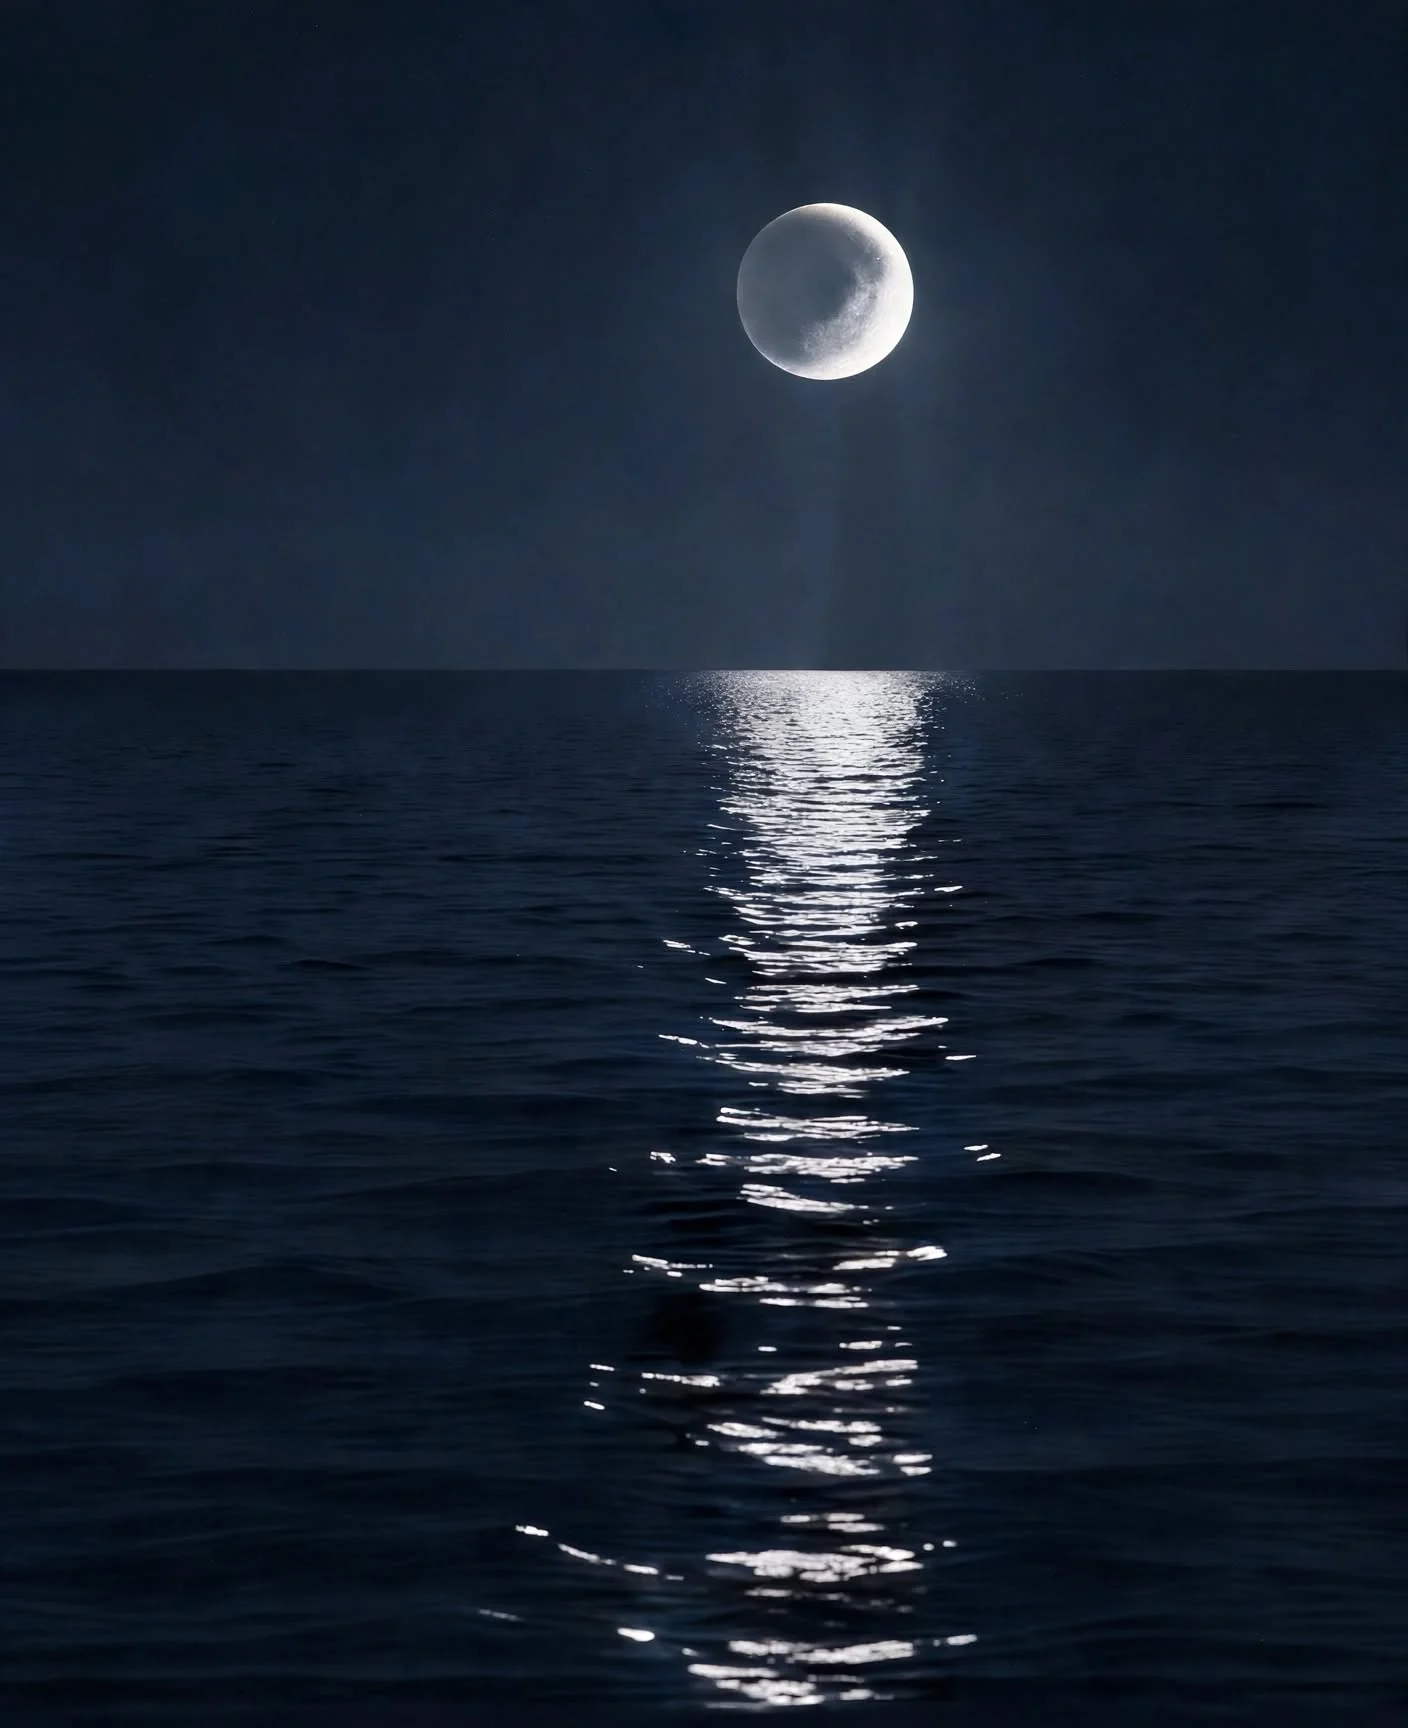
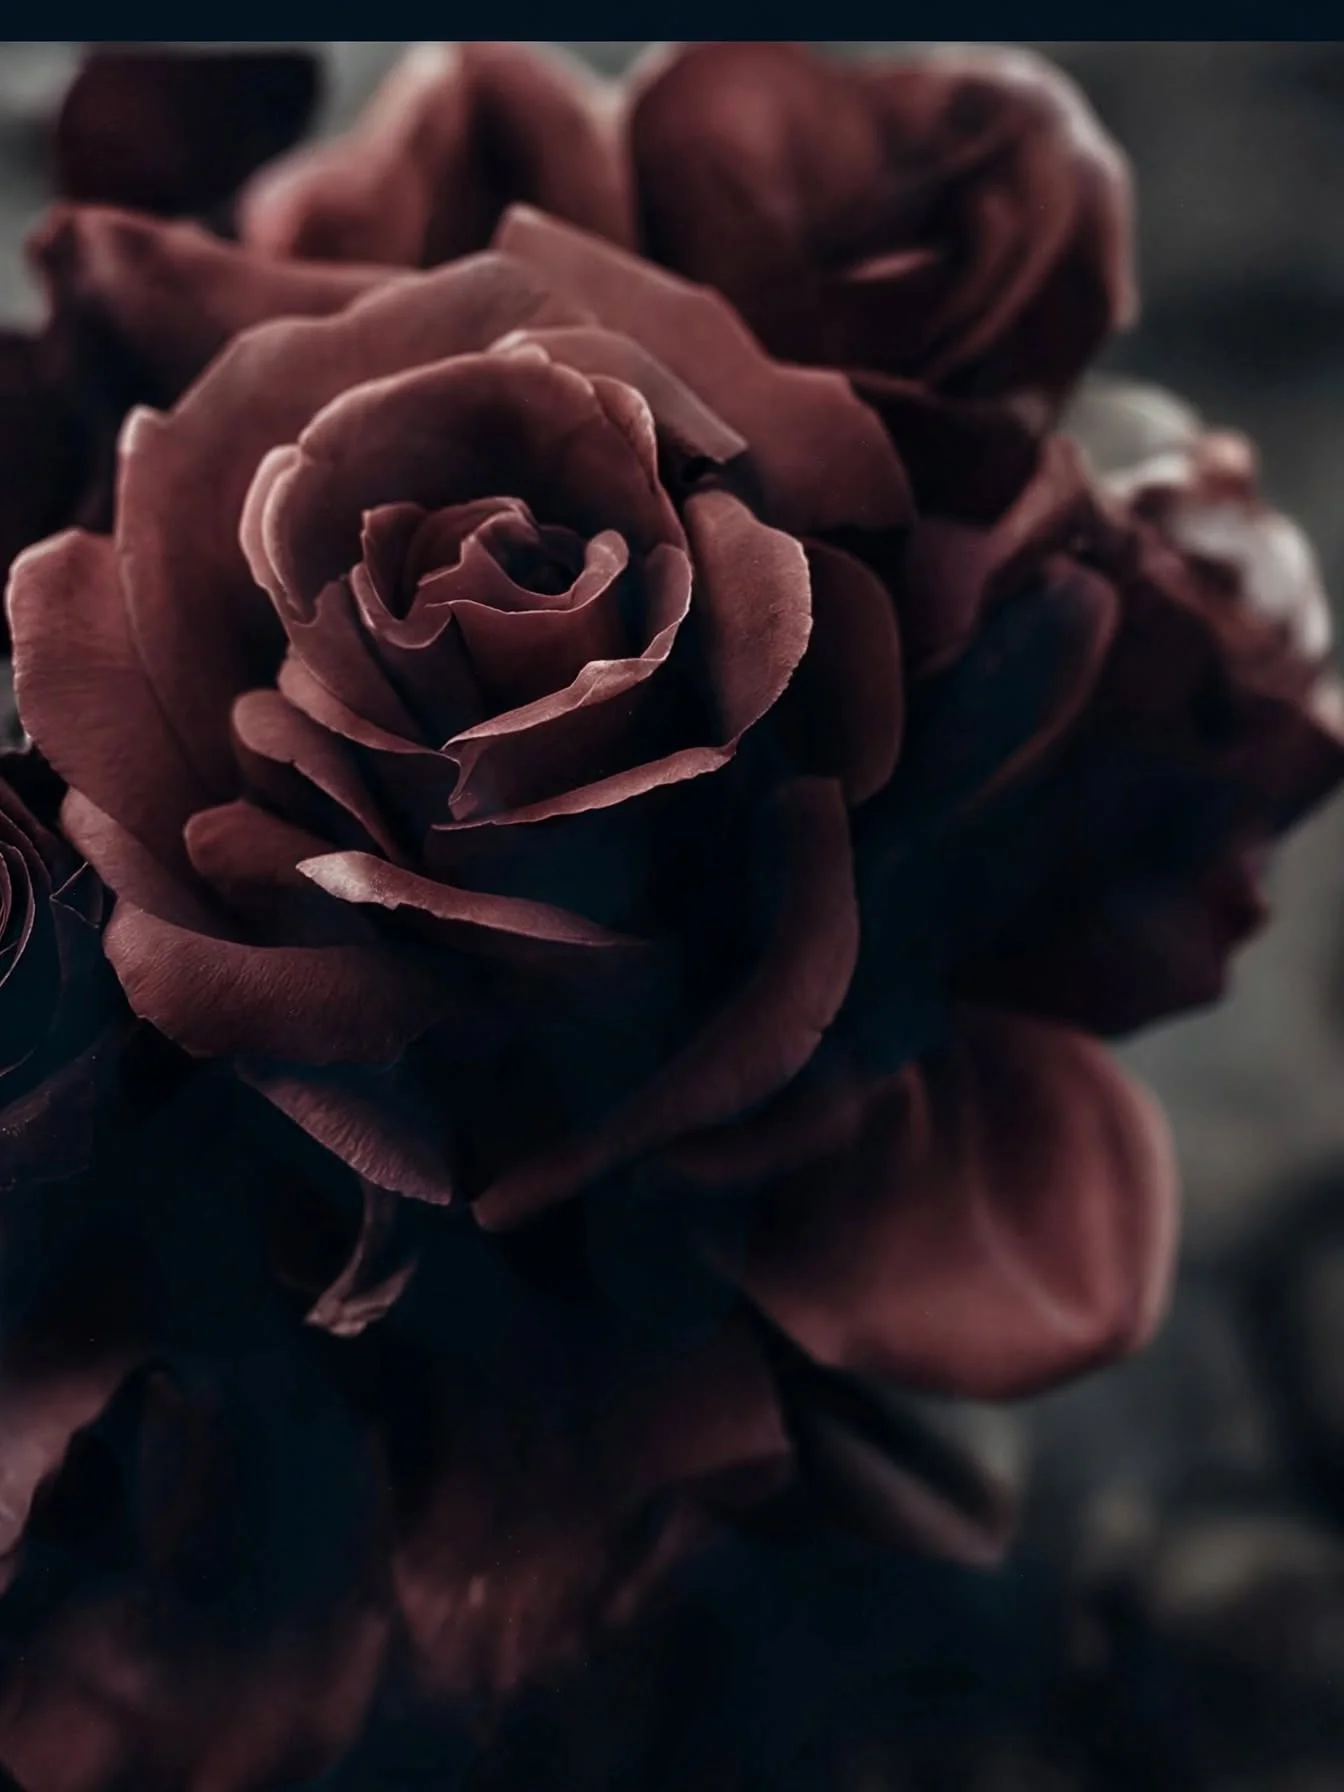
fix(moods): scale subtext font up by one step and lock 5th card mobile width to match sibling cards

diff --git a/src/components/sections/moods/MoodSection.tsx b/src/components/sections/moods/MoodSection.tsx
@@ -1,3 +1,4 @@
+// src/components/sections/moods/MoodSection.tsx
 import { siteConfig } from "@/config/site";
 import { MoodCard } from "./MoodCard";
 
@@ -8,24 +9,20 @@ export function MoodSection() {
     <section
       id="moods"
       aria-label="The Azor Mood"
-      /* Deep midnight indigo slate canvas (#09111E) matching reference background */
       className="relative w-full bg-[#09111E] text-white border-b border-white/5 py-12 xs:py-14 sm:py-16 md:py-18 lg:py-20 px-5 xs:px-6 sm:px-8 md:px-10 lg:px-14 xl:px-18 2xl:px-20 selection:bg-white/20 selection:text-white"
     >
       <div className="max-w-[1440px] mx-auto">
         
         {/* Header Block */}
         <div className="flex flex-col items-start space-y-1.5 xs:space-y-2 mb-8 xs:mb-10 sm:mb-12 lg:mb-14">
-          {/* Eyebrow: THE AZOR MOOD */}
           <p className="text-[9.5px] xs:text-[10px] sm:text-[10.5px] font-[family-name:var(--font-sans)] font-medium tracking-[0.26em] uppercase text-[#738294]">
             {moods.eyebrow}
           </p>
 
-          {/* Section Main Title: Cormorant Garamond */}
           <h2 className="text-[26px] xs:text-[29px] sm:text-[32px] md:text-[36px] lg:text-[38px] xl:text-[40px] font-[family-name:var(--font-serif)] font-normal tracking-[0.03em] text-[#F8FAFC] leading-none">
             {moods.title}
           </h2>
 
-          {/* Subtitle / Description */}
           <p className="text-[11px] xs:text-[11.5px] sm:text-[12px] font-[family-name:var(--font-sans)] font-light text-[#94A3B8] tracking-[0.03em] leading-normal pt-0.5">
             {moods.description}
           </p>
@@ -33,23 +30,36 @@ export function MoodSection() {
 
         {/* 
           5-Item Layout:
-          - Mobile (< 768px): 2 balanced columns, item 5 centered in the grid
-          - Tablet (768px - 1023px): 3 columns
-          - Desktop (1024px+): 5-column single-row panoramic display
+          - Mobile (< 768px): 2 columns. The 5th card centers horizontally while maintaining 
+            the exact same width: calc((100% - gap) / 2) as items 1-4.
+          - Tablet (768px - 1023px): 3 columns.
+          - Desktop (1024px+): 5-column single-row panoramic display.
         */}
         <div className="grid grid-cols-2 md:grid-cols-3 lg:grid-cols-5 gap-x-4 xs:gap-x-5 sm:gap-x-6 lg:gap-x-3.5 xl:gap-x-4 gap-y-7 xs:gap-y-8 sm:gap-y-9 lg:gap-y-0 w-full items-start">
-          {moods.items.map((item, index) => (
-            <div
-              key={item.id}
-              className={
-                index === moods.items.length - 1
-                  ? "col-span-2 xs:col-span-2 md:col-span-1 max-w-[200px] xs:max-w-[220px] md:max-w-none mx-auto w-full"
-                  : "w-full"
-              }
-            >
-              <MoodCard item={item} />
-            </div>
-          ))}
+          {moods.items.map((item, index) => {
+            const isLastOnMobile = index === moods.items.length - 1;
+
+            return (
+              <div
+                key={item.id}
+                className={
+                  isLastOnMobile
+                    ? "col-span-2 flex justify-center md:col-span-1 md:block w-full"
+                    : "w-full"
+                }
+              >
+                <div
+                  className={
+                    isLastOnMobile
+                      ? "w-[calc((100%-1rem)/2)] xs:w-[calc((100%-1.25rem)/2)] sm:w-[calc((100%-1.5rem)/2)] md:w-full"
+                      : "w-full"
+                  }
+                >
+                  <MoodCard item={item} />
+                </div>
+              </div>
+            );
+          })}
         </div>
 
       </div>

diff --git a/src/components/sections/moods/MoodCard.tsx b/src/components/sections/moods/MoodCard.tsx
@@ -1,3 +1,4 @@
+// src/components/sections/moods/MoodCard.tsx
 import Image from "next/image";
 import { MoodItem } from "@/config/site";
 
@@ -8,7 +9,7 @@ interface MoodCardProps {
 export function MoodCard({ item }: MoodCardProps) {
   return (
     <div className="flex flex-col items-center w-full select-none group text-center">
-      {/* 4:5 Portrait Frame with Subtle Hairline Border */}
+      {/* 4:5 Portrait Frame */}
       <div className="relative w-full aspect-[4/5] overflow-hidden bg-[#070D18] border border-white/15 transition-all duration-500 ease-out group-hover:border-white/35 shadow-[0_6px_24px_rgba(0,0,0,0.35)]">
         <Image
           src={item.image.src}
@@ -22,12 +23,12 @@ export function MoodCard({ item }: MoodCardProps) {
       {/* Typographic Stack Below Image */}
       <div className="flex flex-col items-center mt-3 xs:mt-3.5 sm:mt-4 space-y-1">
         {/* Mood Name */}
-        <span className="text-[9.5px] xs:text-[10px] sm:text-[10.5px] font-[family-name:var(--font-sans)] font-semibold tracking-[0.24em] text-[#F8FAFC] uppercase leading-none">
+        <span className="text-[10px] xs:text-[10.5px] sm:text-[11px] font-[family-name:var(--font-sans)] font-semibold tracking-[0.24em] text-[#F8FAFC] uppercase leading-none">
           {item.title}
         </span>
 
-        {/* Two-Line Subtext Stack */}
-        <div className="text-[8.5px] xs:text-[9px] sm:text-[9.5px] font-[family-name:var(--font-sans)] font-light text-[#8E99A8] tracking-[0.025em] leading-[1.4] pt-0.5">
+        {/* Two-Line Subtext Stack — Scaled up by one level */}
+        <div className="text-[10px] xs:text-[10.5px] sm:text-[11px] font-[family-name:var(--font-sans)] font-light text-[#8E99A8] tracking-[0.025em] leading-[1.45] pt-0.5">
           <p>{item.descriptorLines[0]}</p>
           <p>{item.descriptorLines[1]}</p>
         </div>
